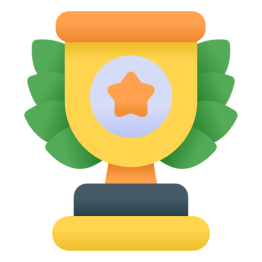
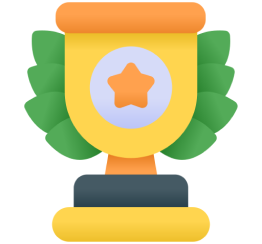
edit

diff --git a/src/сomponents/pages/lk/Lk.module.css b/src/сomponents/pages/lk/Lk.module.css
@@ -47,13 +47,11 @@
   justify-content: space-between;
 }
 .main .profile .prizes .prize {
-  width: 40%;
-  height: 40%;
+  height: 35%;
 }
 .main .profile .prizes .prize img {
-  width: 100%;
   height: 100%;
-  object-fit: contain;
+  object-fit: cover;
 }
 .main .profile .balance {
   font-family: Istok Web, serif;

diff --git a/src/сomponents/pages/lk/Lk.module.scss b/src/сomponents/pages/lk/Lk.module.scss
@@ -53,13 +53,11 @@
       justify-content: space-between;
 
       .prize {
-        width: 40%;
-        height: 40%;
+        height: 35%;
 
         img {
-          width: 100%;
           height: 100%;
-          object-fit: contain;
+          object-fit: cover;
         }
       }
     }
